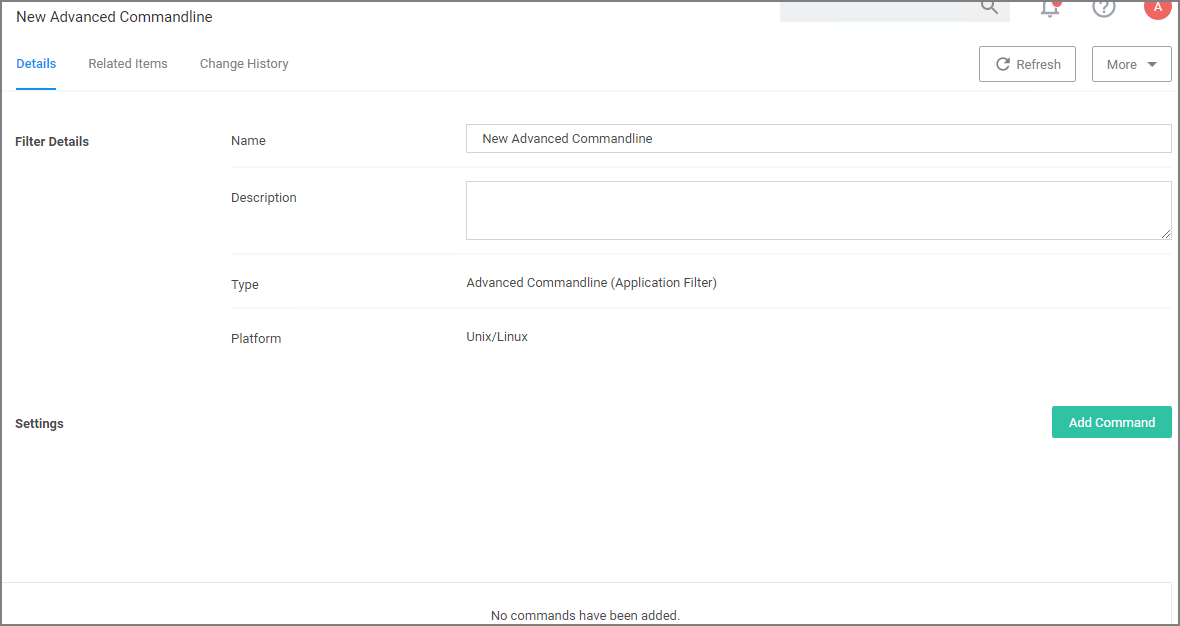
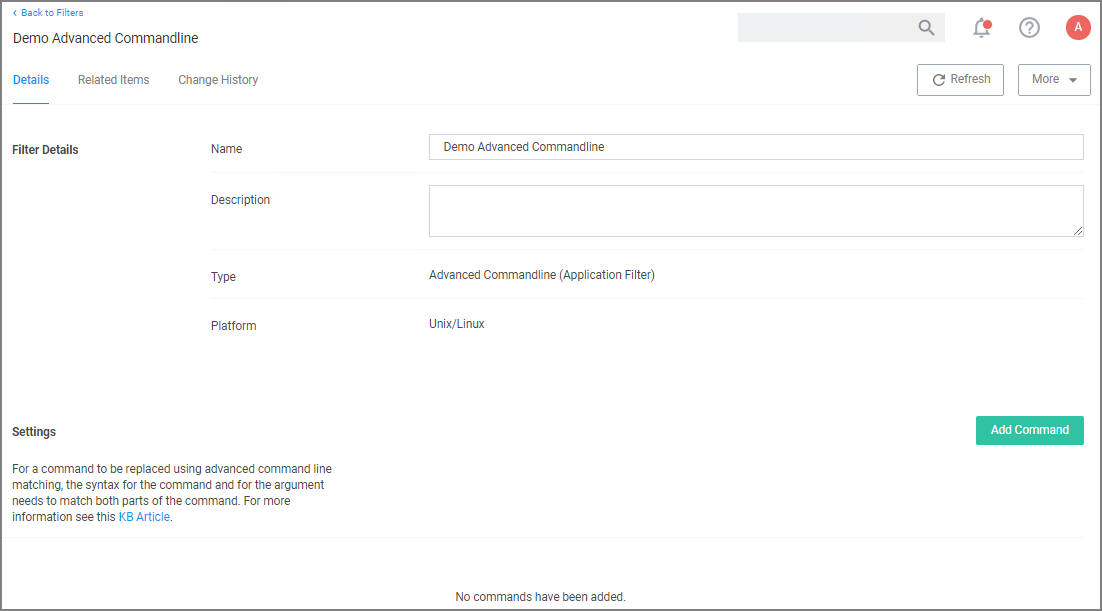
#219739: added the adv-cmdline.md topic, and cleaned up filter topics that were removed and added another that was missing in the docs.

diff --git a/admin/filters/types/nix/adv-cmdline.md b/admin/filters/types/nix/adv-cmdline.md
@@ -3,31 +3,14 @@
 [priority]: # (3)
 # Advanced Commandline Filter
 
-These filters will perform an exact, partial or regex match on the commandline of the process.
-
-<!--Privilege Manager comes with default commandline filter types, which are all read-only, but can be copied to be customized.
-
-This filter is available for both Windows and macOS systems.
-
-## Search for Commandline Filters
-
-1. Navigate to __Admin | Filters__.
-1. In the search field for the __Type__ column enter commandline.
-
-   ![Commandline Filter type search](../images/search-2.png "Commandline Filter type search")
-1. Select a filter to view its details and/or use __Duplicate__ to customize the filter.
-
-   ![Commandline Filter default example](images/command-line-filter.png "Commandline Filter default example")
-
-   If you Duplicate (make a copy of an existing) filter, "rename" the filter and click __Create__.
-
-   ![duplicate](images/command-line-filter-2.png "Commandline Filter duplicate")
--->
+These filters perform a GLOB or RegEx match on the commandline of the process.
 
 ## Create a new Advanced Commandline Type Filter
 
 1. Navigate to __Admin | Filters__.
 1. Click __Create Filter__.
+
+   ![create](images/adv-cmdline.png "Create Filter modal")
 1. On the New Filter page, select the platform. For this example, select __Unix/Linux__.
 1. From the __Filter Type__ drop-down select __Advanced Commandline Filter__.
 1. Enter a name and description and click __Create__.
@@ -36,27 +19,14 @@ This filter is available for both Windows and macOS systems.
 1. Customize the newly created filter, click __Add Command__.
 
    ![New Commandline Filter edit](images/adv-cmdline-2.png "Add commands to the filter")
+1. Select the matching type, Glob or RegEx. Use Glob for filename matches and RegEx for searches amd matches of patterns in files.
 1. Enter a __Command__.
 1. Enter __Arguments__.
 1. Enter a __Replacement__.
 1. Click __Save Changes__.
 
-<!-- ## Parameters
-
-Commandline Filters have one section to set the parameters for the filter.
-
-The __Match Type__ gives you the options:
-
-* Exact Match
-* Partial Match
-* Regular expression
-
-__Command Line__:
-
-* This is the section where you enter in the given command parameters to pull up the file or action.
-
 ## Examples
 
-A commandline filter examines the commandline (excluding the primary executable) and applies a pattern match (Exact, Partial or Regular Expression).
+A commandline filter examines the commandline (excluding the primary executable) and uses either Glob or RegEx for the pattern match. Here are examples for both options:
 
-For example allowing /FlushDNS as a command for IPConfig. -->
+![examples](images/adv-cmdline-examples.png "Example entries using Glob and RegEx")

diff --git a/admin/filters/types/index.md b/admin/filters/types/index.md
@@ -3,12 +3,19 @@
 [priority]: # (5000)
 # Filter Types and Descriptions
 
-There are different types of filters. When creating a new filter for Windows or macOS, the "Filter Type" drop-down gives you a list of options that include the categories:
+There are different types of filters for different operating systems and applicable functional areas. When creating a new filter,
 
-* [Application Filters](application/index.md)
-* [File Filters](file/index.md)
-* [Inventory Filters](inventory/index.md)
-* [macOS Specific Filters](macOS/index.md)
+* the __Platform__ drop-down offers a choice of macOS, Windows, and Unix/Linux.
+
+  * [Unix/Linux](nix/index.md)
+  * [Mac OS](macOS/index.md)
+  * Windows
+
+* when Windows or macOS is selected as a platform, the __Filter Type__ drop-down gives a list of options based on that platform selection:
+
+  * [Application Filters](application/index.md)
+  * [File Filters](file/index.md)
+  * [Inventory Filters](inventory/index.md)
 
 These are loose groupings that signify a few different approaches to the filtering method or targets.
 

diff --git a/admin/filters/types/nix/time-of-day.md b/admin/filters/types/nix/time-of-day.md
@@ -1,0 +1,19 @@
+[title]: # (Time of Day)
+[tags]: # (filter types)
+[priority]: # (2)
+# Time of Day Filter
+
+This type of filter exists to create policy parameters for specific time frames.
+
+![Time of Day Filter](images/time-of-day-filter.png "Time of Day Filter")
+
+## Parameters
+
+The time of day filter has two different settings to allow you to set time and day allowances.
+
+* Switch to turn on Different Periods on Different Days
+* Switches to turn on the time of day settings for the specific day of the week.
+
+## Examples
+
+You can use the time of day filter in a policy to only pickup specific times or days of the week.

diff --git a/admin/filters/types/nix/index.md b/admin/filters/types/nix/index.md
@@ -9,12 +9,6 @@ Most of the Application and File type filters apply to all OS platforms. However
 
 The following filters are available based on type from a quick select drop-down menu, after choosing Unix/Linux as the platform.
 
-### Application Filter Types
-
 * [Advanced Commandline Filter](adv-cmdline.md)
-* [Target Host Filter](target-host.md)
 * [User Context Filter](user-context.md)
-
-### File Filter Types
-
-* [File Specification Filter](file-spec.md)
+* [Time of Day Filter](time-of-day.md)
